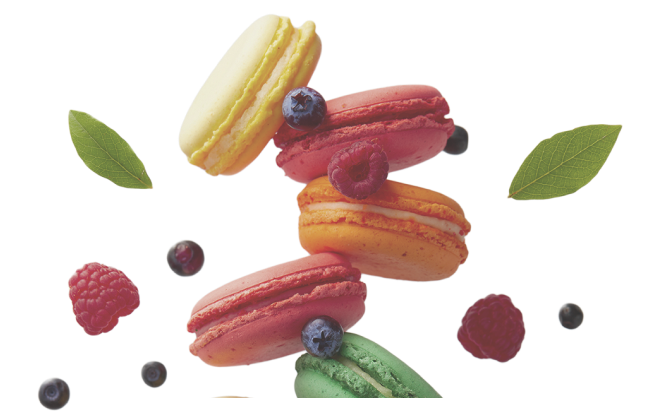
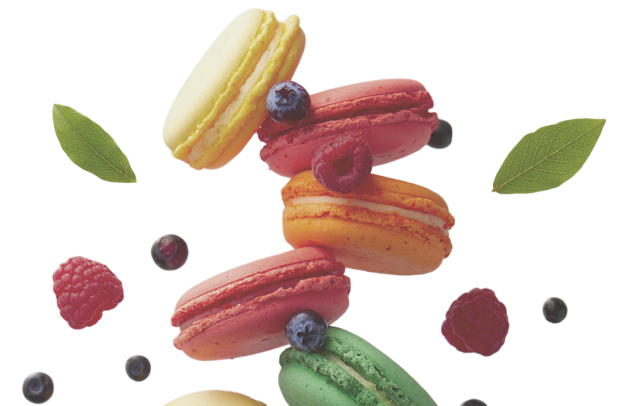
Header do mobile ok

diff --git a/src/pages/Home/styles.js b/src/pages/Home/styles.js
@@ -1,4 +1,5 @@
 import styled from "styled-components";
+import { DEVICE_BREAKPOINTS } from "../../styles/deviceBreakpoints";
 
 export const Container = styled.div`
     width: 100%;
@@ -17,38 +18,45 @@ export const Content = styled.div`
     grid-area: content;
 
     padding: 1.5rem 7.68rem;
+
+    @media (max-width: ${DEVICE_BREAKPOINTS.MD}) {
+        padding: 1.5rem 3rem;
+    }
 `
 
 export const Highlight = styled.div`
-    height: 16.25rem;
+    height: 10rem;
     display: flex;
     justify-content: end;
     align-items: center;
 
     background: ${({ theme }) => theme.COLORS.GRADIENTS200};
 
+    border-radius: .5rem;
+
     position: relative;
 
-    margin-top: 10.2rem;
+    margin-top: 2.1rem;
 
     > img {
         position: absolute;
         width: 50%;
-        bottom: -14px;
-        left: -70px;
+        bottom: 0;
+        left: -2rem;
     }
 
     > div {
+        width: 60%;
+
         display: flex;
         flex-direction: column;
-        align-items: center;
-
-        margin-right: 6.2rem;
     
+        padding-right: 8px;
+
         > h1 {
-            font-size: 2.5rem;
+            font-size: 1.5rem;
             color: ${({ theme }) => theme.COLORS.LIGHT300};
-            font-weight: 400;
+            font-weight: 600;
         }
     
         > span {
